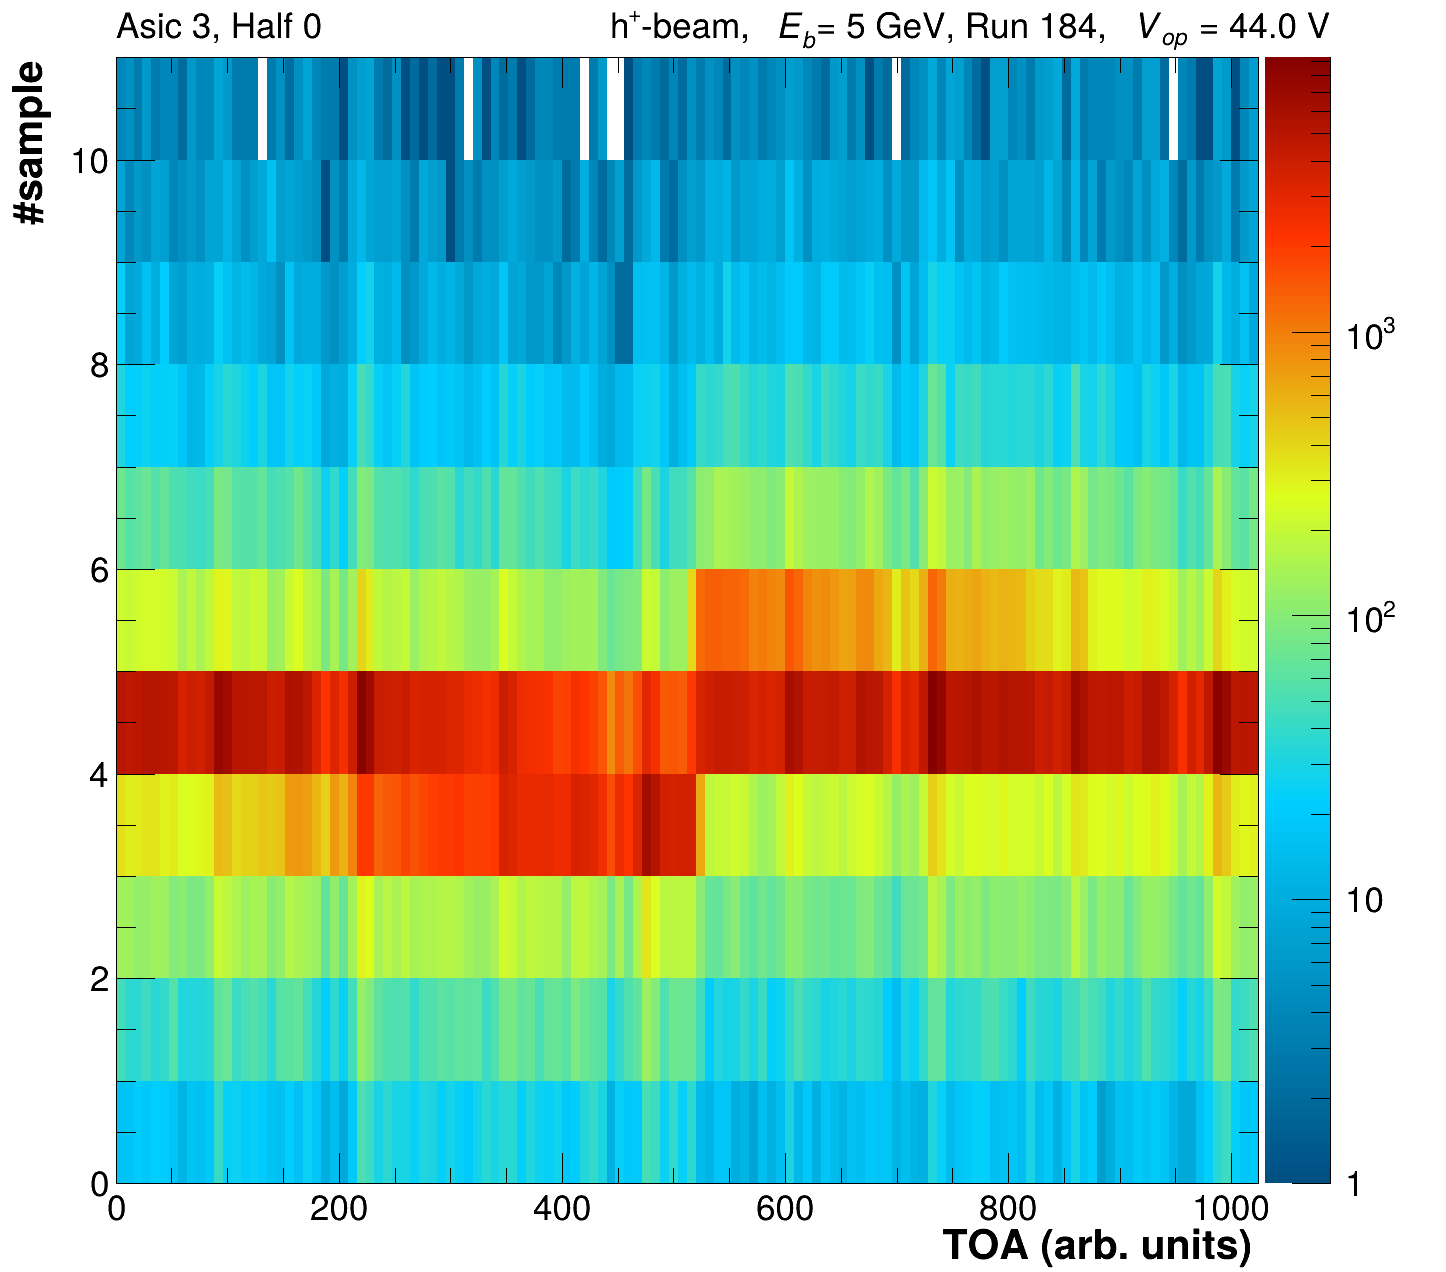
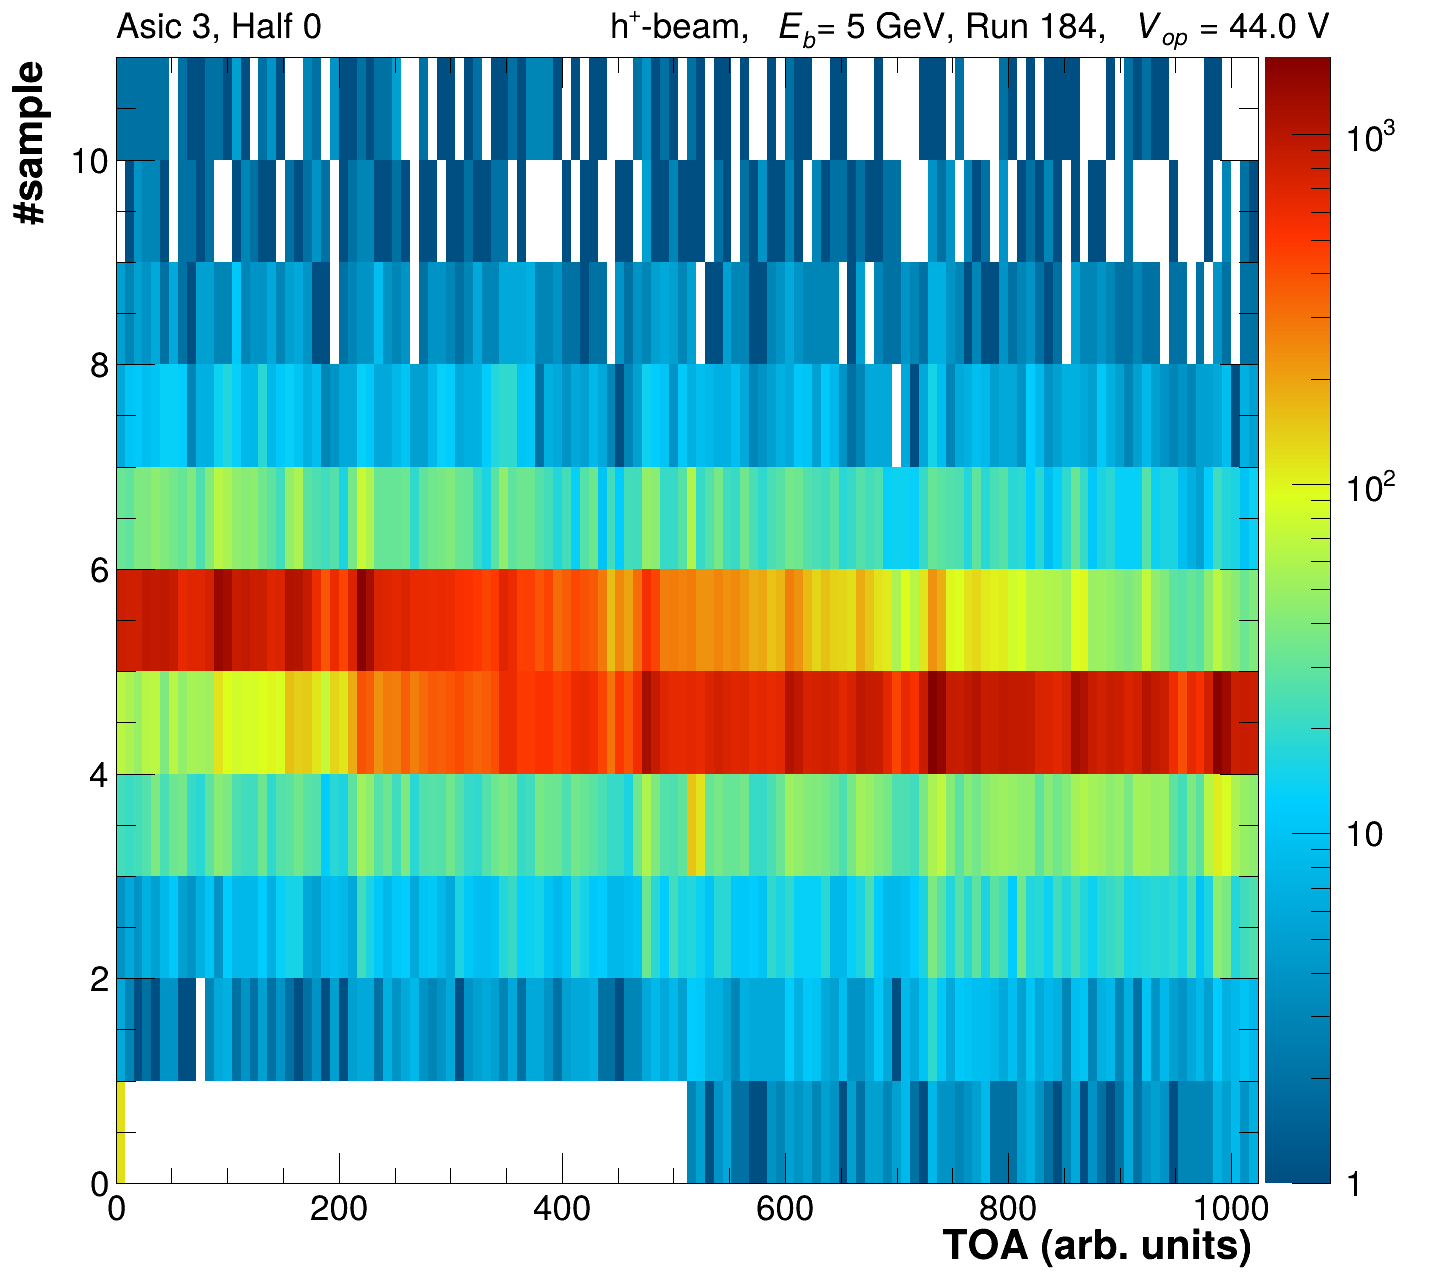
GITBOOK-70: No subject

diff --git a/calibration/mip-calibration.md b/calibration/mip-calibration.md
@@ -71,7 +71,14 @@ If your muon runs were for instance done with multiple positions of the beam and
 hadd -f raw_muonScanA1_45V.root raw_244.root raw_250.root
 ```
 
+#### **HGCROC specific handling**
+
 **For the HGCROC-data the calibration transfer is handled a little bit differently as the raw waveforms are being reevaluated in this step.**&#x20;
+
+```bash
+#read an external bad channel from $BADCHANNELMAP
+./DataPrep -d 1 -e -f -P PedestalCalib_$RUNNR1.root -i raw_$RUNNR2.root -o rawPed_$RUNNR2.root -B $BADCHANNELMAP -G $TOAOFFSETFILE -O $PLOTSDIR -r $RUNLIST 
+```
 
 During this transfer process the pedestal values of the waveforms are reset with the following priority:
 
@@ -98,6 +105,20 @@ Additional QA plots are also produced to ascertain the correct application of th
 <figure><img src="../.gitbook/assets/Waveform_Layer01 (1).png" alt=""><figcaption><p>Waveform representation as obtained from the TransferCalib running. No event or signal selection criteria are applied. </p></figcaption></figure>
 
 <figure><img src="../.gitbook/assets/WaveformSignal_Layer1.png" alt=""><figcaption><p>Waveform representation as obtained from the TransferCalib running for waveforms which have a non-zero ToA.</p></figcaption></figure>
+
+Moreover, the correction for the `TOA` offset is performed if the option `-G $TOAOFFSETFILE` is used. With the `$TOAOFFSETFILE=../configs/TB2025/ToAOffsets_TB2025_HadRun.csv` for instance. How to generate that offset file is described in the [TOA phase extraction section](toa-phase-extraction.md). In order to check that this correction has been applied additional plots vs `TOA` as well as waveforms per asic half are generated.&#x20;
+
+<div><figure><img src="../.gitbook/assets/ToaVsNSample_Asic_0_Half_0.png" alt=""><figcaption></figcaption></figure> <figure><img src="../.gitbook/assets/ToaVsNSample_Asic_0_Half_1.png" alt=""><figcaption></figcaption></figure> <figure><img src="../.gitbook/assets/ToaVsNSample_Asic_1_Half_0.png" alt=""><figcaption></figcaption></figure> <figure><img src="../.gitbook/assets/ToaVsNSample_Asic_3_Half_0.png" alt=""><figcaption></figcaption></figure></div>
+
+<div><figure><img src="../.gitbook/assets/Waveform_Asic_0_Half_0.png" alt=""><figcaption></figcaption></figure> <figure><img src="../.gitbook/assets/Waveform_Asic_0_Half_1.png" alt=""><figcaption></figcaption></figure> <figure><img src="../.gitbook/assets/Waveform_Asic_1_Half_0.png" alt=""><figcaption></figcaption></figure> <figure><img src="../.gitbook/assets/Waveform_Asic_3_Half_0.png" alt=""><figcaption></figcaption></figure></div>
+
+<div><figure><img src="../.gitbook/assets/NSampleToA.png" alt=""><figcaption></figcaption></figure> <figure><img src="../.gitbook/assets/SampleTOAvsCellID.png" alt=""><figcaption></figcaption></figure></div>
+
+These plots show the corrected distributions of what has been previous shown in [TOA phase extraction section](toa-phase-extraction.md). Clearly highlighting the improved understanding of the data. Moreover, the linearized `TOA` distribution before and after correction is shown expressed in _ns._ In order to do so an average time resolution of `25./1024` ns is assumed.
+
+<div><figure><img src="../.gitbook/assets/TOANsvsCellID.png" alt=""><figcaption><p>Uncorrected linearized TOA in ns.</p></figcaption></figure> <figure><img src="../.gitbook/assets/TOACorrNsvsCellID.png" alt=""><figcaption><p>Corrected linearized TOA in ns.</p></figcaption></figure></div>
+
+This `TOA` correction is necessary should we ever want to perform a more sophisticated waveform fit or correction, besides the maximum ADC evaluation.
 
 ***
 

diff --git a/calibration/toa-phase-extraction.md b/calibration/toa-phase-extraction.md
@@ -2,7 +2,7 @@
 description: >-
   This step is only necessary for the HGCROC data, for CAEN data processing
   please continue to the next section.
-cover: ../.gitbook/assets/ToaVsNSample_Asic_0_Half_0.png
+cover: ../.gitbook/assets/ToaVsNSample_Asic_0_Half_0 (1).png
 coverY: -128.89438202247192
 layout:
   width: default
@@ -47,9 +47,9 @@ For now we don't plan to implement this calibration as we aren't planning to use
 
 A TOA value should be written to the next sample after the threshold had been surpassed. However, it is sampled of a 160MHz clock, which is derived from our 40 MHz clock. This clocks might not be fully aligned and could have 4 different phases, which can vary for each half of the HGCROC chip. Below you find examples of the `TOA` vs the sample nr it was recorded in as well as the waveforms shifted by the linearized `TOA`.
 
-<div><figure><img src="../.gitbook/assets/ToaVsNSample_Asic_0_Half_0 (1).png" alt=""><figcaption></figcaption></figure> <figure><img src="../.gitbook/assets/ToaVsNSample_Asic_0_Half_1.png" alt=""><figcaption></figcaption></figure> <figure><img src="../.gitbook/assets/ToaVsNSample_Asic_1_Half_0.png" alt=""><figcaption></figcaption></figure> <figure><img src="../.gitbook/assets/ToaVsNSample_Asic_3_Half_0.png" alt=""><figcaption></figcaption></figure></div>
+<div><figure><img src="../.gitbook/assets/ToaVsNSample_Asic_0_Half_0 (1) (1).png" alt=""><figcaption></figcaption></figure> <figure><img src="../.gitbook/assets/ToaVsNSample_Asic_0_Half_1 (1).png" alt=""><figcaption></figcaption></figure> <figure><img src="../.gitbook/assets/ToaVsNSample_Asic_1_Half_0 (1).png" alt=""><figcaption></figcaption></figure> <figure><img src="../.gitbook/assets/ToaVsNSample_Asic_3_Half_0 (1).png" alt=""><figcaption></figcaption></figure></div>
 
-<div><figure><img src="../.gitbook/assets/Waveform_Asic_0_Half_0.png" alt=""><figcaption></figcaption></figure> <figure><img src="../.gitbook/assets/Waveform_Asic_0_Half_1 (1).png" alt=""><figcaption></figcaption></figure> <figure><img src="../.gitbook/assets/Waveform_Asic_1_Half_0 (1).png" alt=""><figcaption></figcaption></figure> <figure><img src="../.gitbook/assets/Waveform_Asic_3_Half_0 (1).png" alt=""><figcaption></figcaption></figure></div>
+<div><figure><img src="../.gitbook/assets/Waveform_Asic_0_Half_0 (1).png" alt=""><figcaption></figcaption></figure> <figure><img src="../.gitbook/assets/Waveform_Asic_0_Half_1 (1) (1).png" alt=""><figcaption></figcaption></figure> <figure><img src="../.gitbook/assets/Waveform_Asic_1_Half_0 (1) (1).png" alt=""><figcaption></figcaption></figure> <figure><img src="../.gitbook/assets/Waveform_Asic_3_Half_0 (1) (1).png" alt=""><figcaption></figcaption></figure></div>
 
 The linearized `TOA` calculation can be found in [HGCROC.cc](https://hgcroc.cc):
 
